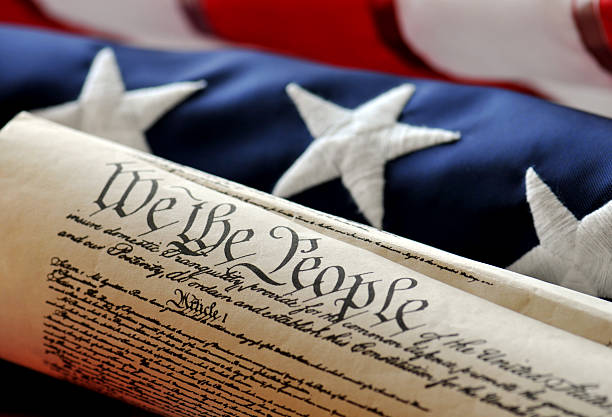
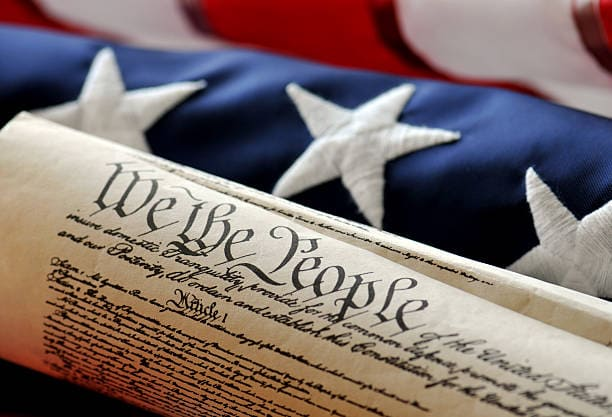
bg imgs compressed

diff --git a/style.css b/style.css
@@ -179,7 +179,7 @@ body.light-mode footer a{
 
 body.light-mode footer .social-links-container svg{
     background-color: #eee;
-    box-shadow: 1px 1px 10px #00000022, -1px -1px 10px #00000022;
+    /* box-shadow: 1px 1px 10px #00000022, -1px -1px 10px #00000022; */
     fill: var(--accent-color);
 }
 
